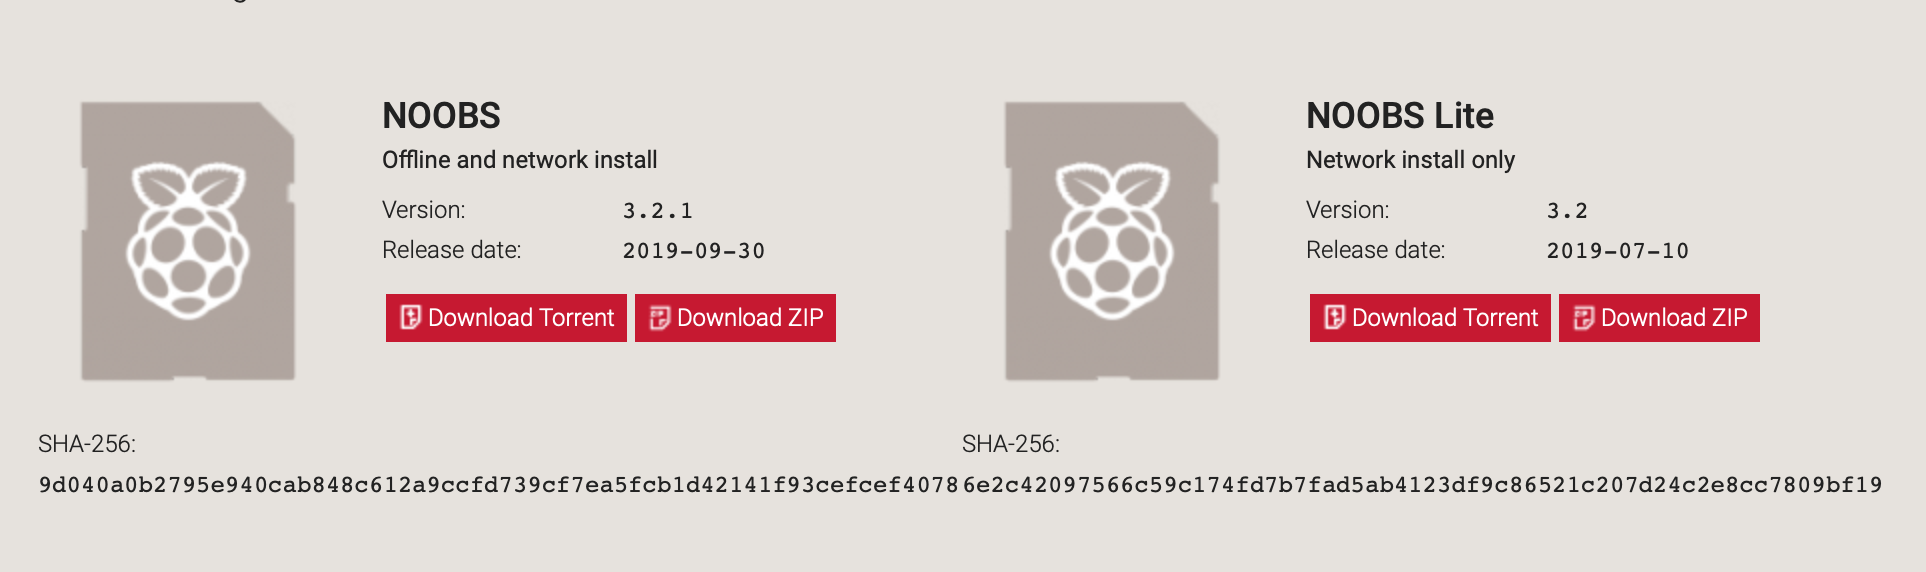
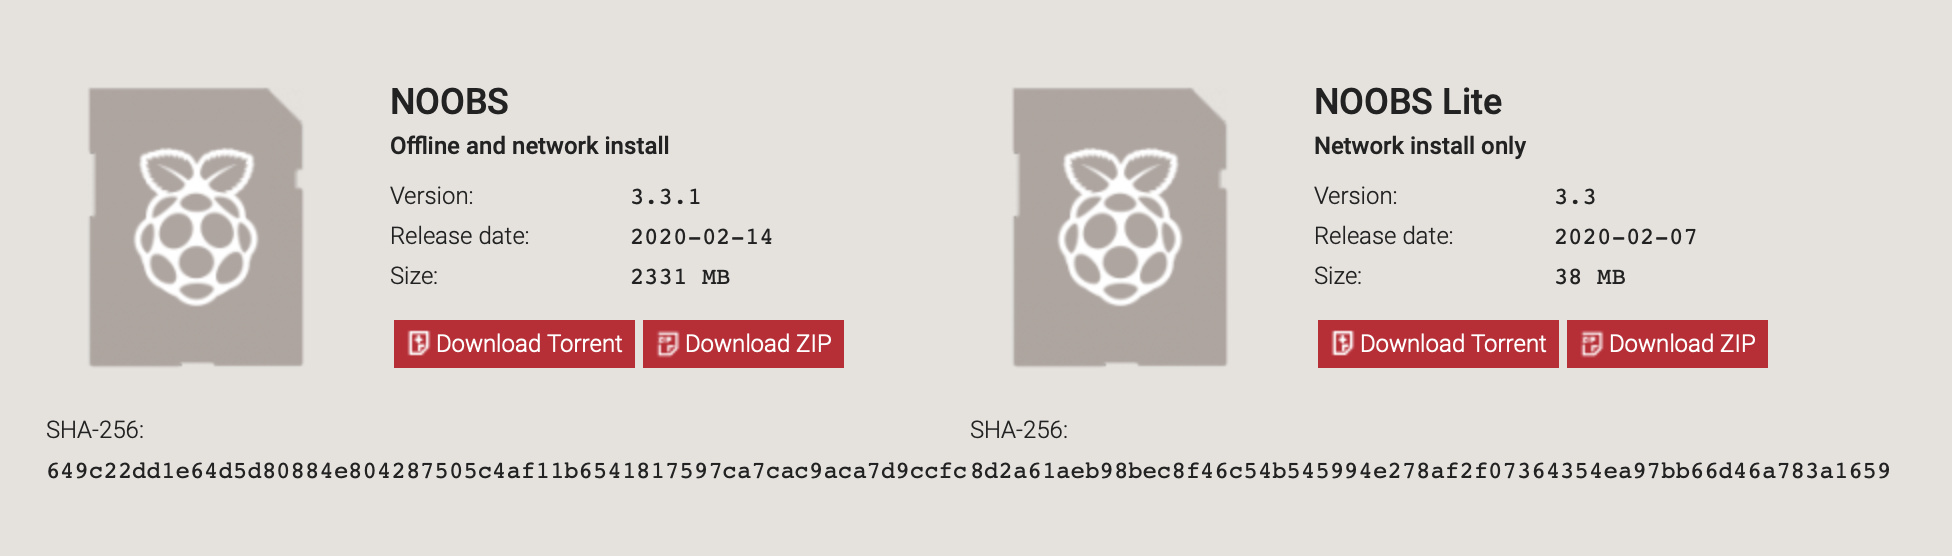
Update N00BS setup information
And include using ApplePi-Baker for these steps.

diff --git a/README.md b/README.md
@@ -13,7 +13,8 @@ While I won't have time to troubleshoot other setups, I'm sharing what I had to 
 + Raspberry Pi 3 Model B Plus Rev 1.3
 + Raspbian 10 Buster Lite
 + 16GB MicroSD card (4GB might be enough, but I'd stick with at least 8GB)
-+ Mac running macOS Mojave (for prepping, backing up, and restoring the SD card)
++ Mac running macOS Catalina (for prepping, backing up, and restoring the SD card)
++ The free [ApplePi-Baker](https://www.tweaking4all.com/hardware/raspberry-pi/applepi-baker-v2/) app for macOS
 + USB SD card reader (I use this simple [Anker 2-in-1 card reader](https://amzn.to/2OaNBd1))
 + Mouse and keyboard for intial Raspberry Pi setup (I used a Bluetooth mouse that has its own USB transmitter, and my wife's [Apple Magic Keyboard connected via a USB to Lightning cable](https://www.reddit.com/r/mac/comments/6m3rpm/question_possible_to_use_magic_keyboard_2_without/))
 + HDMI cable and montior for initial Raspberry Pi setup (I hooked mine to a TV)
@@ -24,12 +25,25 @@ That said, this process should work on any Raspberry Pi 2 v1.2 and above, and th
 ## Installing Raspbian on the Raspberry Pi
 There are many operating systems available to run on the Raspberry Pi, but we'll be using the latest version of Raspbian for this tutorial. There are also several different ways to install Rasbian on your Raspberry Pi, including N00Bs (New Out Of the Box Software). It's an easy operating system installer that allows you to erase your Raspberry Pi's SD card and start from scratch quickly, which is great when you're experimenting with your new device.
 
+### Step 1: Download N00BS
+You can [download N00BS](https://www.raspberrypi.org/downloads/noobs/) for free in either the full version (includes Raspbian and LibreELEC installation files) or the Lite version (nothing is pre-loaded, you'll download installation files from the internet during the setup of your Raspberry Pi). The difference here is that the Lite version takes much less time to load onto your SD card but then requires more time during setup on your Raspberry Pi to download all the files.
+
+**Note:** The full version is around 2.5GB of files that will take around 20-30 minutes to transfer to the SD card, at least with my configuration.
+
 ![Download N00BS](screenshots/n00bs-download.png)
 
-You can [download N00BS](https://www.raspberrypi.org/downloads/noobs/) for free in either the normal version (includes Raspbian and LibreELEC installation files) or the lite version (nothing is pre-loaded, you'll download installation files from the internet). Once downloaded, follow [the simple instructions](https://projects.raspberrypi.org/en/projects/raspberry-pi-setting-up/3) to get an SD card ready for your Raspberry Pi.
+### Step 2: Download, Install, and Open ApplePi-Baker
+If you're on a Mac, do yourself a favor and download the free utility [ApplePi-Baker](https://www.tweaking4all.com/hardware/raspberry-pi/applepi-baker-v2/). You can use it to create backups of your Raspberry Pi's SD card, restore from backups, and much more. For now though, we'll use it to quickly prep our SD card for N00BS installation.
+
+![Prepare Disk for N00Bs use](screenshots/applepi-baker-prepare.png)
+
+Select the disk utilities (small hard drive icon) in ApplePi-Baker and then right-click on your SD card. One of the menu options is **Prepare Disk for N00Bs use**. Run that and you should have a properly formatted SD card that's ready for your N00BS files.
+
+### Step 3: Copy Files from N00BS Folder to SD Card
+Once your downloaded N00BS archive is downloaded and uncompressed, copy all the files and folders inside your N00BS folder to the root of the SD card. You can also refer to the `INSTRUCTIONS-README.txt` file included with N00BS for more.
 
 ### Booting N00BS and Installing Raspbian
-Once the SD card is ready, insert it into your Raspberry Pi and boot it up. You'll be taken to the N00BS installer screen where you can choose to install any one of several operating systems, including Raspbian. You can choose from Lite (console only), Desktop (includes a GUI), or Full (Desktop and recommended applications).
+Once the SD card is ready, insert it into your Raspberry Pi and boot it up. If you need help, follow [these simple instructions](https://projects.raspberrypi.org/en/projects/raspberry-pi-setting-up/3) to get started with your Raspberry Pi. You'll be taken to the N00BS installer screen where you can choose to install any one of several operating systems, including Raspbian. You can choose from Lite (console only), Desktop (includes a GUI), or Full (Desktop and recommended applications).
 
 ![N00BS v2.2](screenshots/n00bs-setup.png)
 
@@ -161,7 +175,7 @@ sudo apt-get update
 Throughout the process of setting things up, you may want to have a backup of your Raspberry Pi so you don’t have to start from scratch if you make a mistake like I have (several times). You may even want to clone your Raspberry Pi after each successful step so you can return to it if the next step goes wrong. For instance, I was sure to create a backup of my Raspberry Pi after initial setup, after I had Pi-Hole working, after I added Unbound, and after I got WireGuard setup. That way if I made any changes that broke my setup, I could always revert the previous working installation.
 
 ### Backup the Raspberry Pi SD Card
-There are many ways to do this, but if you're on a Mac there is a very simple (and free) solution. You'll want to download the [ApplePi-Baker](https://www.tweaking4all.com/hardware/raspberry-pi/applepi-baker-v2/) app for macOS, which handles backing up your Raspberry Pi's SD card and can restore from several different formats as well.
+There are many ways to do this, but if you're on a Mac the aforementioned [ApplePi-Baker](https://www.tweaking4all.com/hardware/raspberry-pi/applepi-baker-v2/) app is fantastic and handles backing up your Raspberry Pi's SD card, not to mention restoring from several different formats as well.
 ![ApplePi-Baker macOS App](screenshots/applepi-baker.png)
 At any point you want to backup your Raspberry Pi's configuration, first shutdown the device with:
 ```
@@ -196,13 +210,13 @@ Open the macOS Disk Utility application, and choose View > Show All Devices. Rig
 **Note**: Both the Disk Utility and Terminal methods failed for me, both creating input/output errors. Maybe it was my SD card, or my card reader, but then using ApplePi-Baker gave me no issues, so I didn't bother to investigate further.
 
 ### Restoring a Raspberry Pi from Backup
-If you’ve made a backup of your Raspberry Pi’s SD card previously, you can restore it any time and overrite your current configuration. Using the ApplePi-Baker app on macOS, this is a simple task.
+If you’ve made a backup of your Raspberry Pi’s SD card previously, you can restore it any time and overwrite your current configuration. Using the ApplePi-Baker app on macOS, this is a simple task.
 
 First, shutdown your Raspberry Pi:
 ```
 sudo halt
 ```
-and remove the SD card from your Raspberry Pi. Using a supported SD card reader, insert the SD card from your Raspberry Pi into your Mac. Launch the ApplePi-Baker app and select the correct SD card disk, then choose the **Restore** option. ApplePi-Baker will expand the backup file and overrite the complete contents of your SD card with the backup file's contents, so make sure you really want to do this.
+and remove the SD card from your Raspberry Pi. Using a supported SD card reader, insert the SD card from your Raspberry Pi into your Mac. Launch the ApplePi-Baker app and select the correct SD card disk, then choose the **Restore** option. ApplePi-Baker will expand the backup file and overwrite the complete contents of your SD card with the backup file's contents, so make sure you really want to do this.
 
 #### Using the macOS Terminal to Restore
 You can also use the macOS Terminal application to this by typing:
@@ -247,6 +261,7 @@ pihole -a -p
 ```
 Now you can access the Pi-Hole Web Interface in your browser by going to `http://192.168.x.x/admin` where `192.168.x.x` is the static IP of your Raspberry Pi (you can also use http://pi.hole/admin once you point your router to use Pi-Hole as your DNS service in the next step). Go to Login, then enter the new password you set for the Web Interface and check the “Remember me for 7 days” checkbox before logging in. You won’t see much on the Dashboard yet since nothing on your network is using Pi-Hole, but that should change momentarily.
 ![Pi-Hole Login](screenshots/pi-hole-login.png)
+
 ### Use Pi-Hole as Your DNS Server
 To make sure Pi-Hole is working, you can set a single device to use it as its DNS service or you can point your network’s router to it instead to force (almost) every device on your network to use Pi-Hole as its DNS service. Most routers have a setting for Primary and Secondary DNS, and you'll want to point the Primary DNS Server to the static IP address of your Raspberry Pi (`192.168.x.x`) and the Secondary DNS Server to a 3rd party DNS service like Google (8.8.8.8) or Cloudflare (1.1.1.1) in case your Pi-Hole server goes down for some reason and you don’t want to lose all connectivity to the outside world (like when you're fiddling around with your Raspberry Pi in the upcoming steps).
 
